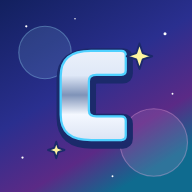
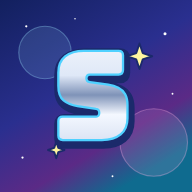
Teil 3 heißt „Schristians Welt“ (Spitzname), Symbol mit S
Claude-Session: https://claude.ai/code/session_01Qq27Hk81UvdcXBZNNTjSve

Changed region(s): [[0.2812, 0.25, 0.7188, 0.7812]]

diff --git a/christians-welt/index.html b/christians-welt/index.html
@@ -7,12 +7,12 @@
 <meta name="theme-color" content="#1b2a6b">
 <meta name="apple-mobile-web-app-capable" content="yes">
 <meta name="mobile-web-app-capable" content="yes">
-<meta name="apple-mobile-web-app-title" content="Christians Welt">
-<link rel="apple-touch-icon" href="icon-192.png?v=2">
-<link rel="icon" href="icon-192.png?v=2">
+<meta name="apple-mobile-web-app-title" content="Schristians Welt">
+<link rel="apple-touch-icon" href="icon-192.png?v=3">
+<link rel="icon" href="icon-192.png?v=3">
 </head>
 <body>
-<title>Christians Welt</title>
+<title>Schristians Welt</title>
 <link rel="preconnect" href="https://fonts.googleapis.com">
 <link rel="preconnect" href="https://fonts.gstatic.com" crossorigin>
 <link rel="stylesheet" href="https://fonts.googleapis.com/css2?family=Bangers&family=Bungee&family=Audiowide&family=Comic+Neue:wght@400;700&family=Permanent+Marker&display=swap">
@@ -1255,7 +1255,7 @@ button.primary, .lvl.next { background: linear-gradient(180deg, #9ff0ff 0%, #38b
   <section class="screen" id="scr-players">
     <div class="title">
       <div class="hero" id="hero"></div>
-      <h1>Christians <span class="big">Welt</span></h1>
+      <h1>Schristians <span class="big">Welt</span></h1>
       <p>Wer spielt?</p>
     </div>
     <div class="players" id="player-list"></div>
@@ -3809,7 +3809,7 @@ for (const T of Object.values(THEMES)) for (const S of (T.scenes || [])) if (NEW
 }
 
 // Werkzeugkoffer heißt in Teil 2 „Lasses Werkstatt“ (eigenes Gebäude auf dem Stadtplan)
-const KIT_NAME = "Christians Werkstatt";
+const KIT_NAME = "Schristians Werkstatt";
 // Lasses Werkstatt als kleines Comic-Gebäude: rotes Dach, Rolltor mit Warnstreifen, Schild mit Schraubenschlüssel
 const KIT_ICON = "werkstatt";
 document.querySelector("svg defs").insertAdjacentHTML("beforeend", `
@@ -5205,7 +5205,7 @@ const TOTAL = WORLDS.filter(w => !w.bonus).reduce((n, w) => n + w.levels.length,
 
 // ---------- Spieler (nur auf diesem Gerät) ----------
 const STORE = "christians-welt-v1";
-let store = { players: [{ id: "christian", name: "Christian", solved: {}, seen: 1 }], current: null };
+let store = { players: [{ id: "christian", name: "Schristian", solved: {}, seen: 1 }], current: null };
 try {
   const raw = JSON.parse(localStorage.getItem(STORE) || "null");
   if (raw && Array.isArray(raw.players) && raw.players.length) store = raw;
@@ -5350,7 +5350,7 @@ function renderMap() {
 const TAG_STYLES = [["#ffd23a", -8], ["#4fd1ff", 6], ["#ff5fa2", -4], ["#7dff7a", 8], ["#ff8a1a", -10], ["#c9a0ff", 4]];
 const tagSVG = (c, rot, k) => `<svg viewBox="0 0 170 70" aria-hidden="true"><g transform="rotate(${rot} 85 35)">
   ${[[18, 14], [150, 18], [30, 58], [140, 56], [96, 8]].map(([x, y], i) => `<circle cx="${x}" cy="${y}" r="${1.4 + (i + k) % 3}" fill="${c}" opacity=".75"/>`).join("")}
-  <text x="85" y="44" text-anchor="middle" font-family="Bangers, Impact, sans-serif" font-size="25" letter-spacing="1" fill="${c}" stroke="#2d3036" stroke-width="5" paint-order="stroke" stroke-linejoin="round">CHRISTIANS WELT</text>
+  <text x="85" y="44" text-anchor="middle" font-family="Bangers, Impact, sans-serif" font-size="23" letter-spacing="1" fill="${c}" stroke="#2d3036" stroke-width="5" paint-order="stroke" stroke-linejoin="round">SCHRISTIANS WELT</text>
   ${[40, 72, 118].map((x, i) => `<path d="M${x + (k * 7) % 11} 46v${8 + ((i + k) % 3) * 6}" stroke="${c}" stroke-width="3.4" stroke-linecap="round"/><circle cx="${x + (k * 7) % 11}" cy="${54 + ((i + k) % 3) * 6}" r="2.6" fill="${c}"/>`).join("")}
   <path d="M150 34l6-6 2 8 8 1-6 6" fill="none" stroke="#2d3036" stroke-width="2.4" stroke-linecap="round"/></g></svg>`;
 function addMapTags() {
@@ -5599,7 +5599,7 @@ Object.assign(OUTFIT, { "Bolzplatz": "c_bolz", "Volksparkstadion": "c_stadion", 
   const bolz = F.scenes.find(sc => sc.name === "Bolzplatz"), volks = F.scenes.find(sc => sc.name === "Volksparkstadion");
   F.scenes = [bolz, volks, FANKURVE];
   F.levelName = (l) => ["Bolzplatz", "Bolzplatz", "Volksparkstadion", "Volksparkstadion", "Fankurve", "Fankurve"][l];
-  F.prize = { symbol: "pokal", title: "Der Pott!", text: (m) => `Meister im Volkspark, Christian! Finale in ${m} Schritten.` };
+  F.prize = { symbol: "pokal", title: "Der Pott!", text: (m) => `Meister im Volkspark, Schristian! Finale in ${m} Schritten.` };
 }
 
 // ---------- Startseite: Christian groß im Y2K-Glanz ----------
@@ -5718,6 +5718,9 @@ const CHRISTIAN_HERO = `<svg viewBox="0 0 240 200" overflow="visible">
     levelName: (l) => SC[l][0], levelBox: () => "k3platte-0", boxCycle: () => ids
   });
 }
+
+// Spitzname: ein früher angelegtes Profil „Christian“ heißt jetzt „Schristian“
+store.players.forEach(p => { if (p.id === "christian" && p.name === "Christian") { p.name = "Schristian"; save(); } });
 
 function buildBoard() {
   let html = "";
@@ -6509,7 +6512,7 @@ const vSel = () => { const k = kitOf(P()); return (k.vsel = k.vsel || {}); };
 const curVar = (kind) => (vSel()[edDesign] || {})[kind] || null;
 const VKINDS = { wall: 1, floor: 1, box: 1 };
 const DICE = `<svg viewBox="0 0 100 100"><rect x="14" y="14" width="72" height="72" rx="16" fill="#ffffff" stroke="currentColor" stroke-width="5"/>${[[34, 34], [66, 34], [50, 50], [34, 66], [66, 66]].map(([x, y]) => `<circle cx="${x}" cy="${y}" r="6.5" fill="currentColor"/>`).join("")}</svg>`;
-const TOOLS = [["wall", "Wand"], ["floor", "Boden"], ["box", "Kiste"], ["goal", "Ziel"], ["start", "Christian"], ["erase", "Radierer"]];
+const TOOLS = [["wall", "Wand"], ["floor", "Boden"], ["box", "Kiste"], ["goal", "Ziel"], ["start", "Schristian"], ["erase", "Radierer"]];
 function edTileSize() {
   const room = Math.min(window.innerWidth - 32, 720), byH = (window.innerHeight - 330) / edLevel.h;
   return Math.max(24, Math.min(64, Math.floor(room / edLevel.w), Math.floor(byH)));

diff --git a/werkzeug/t3.js b/werkzeug/t3.js
@@ -41,7 +41,7 @@ Object.assign(OUTFIT, { "Bolzplatz": "c_bolz", "Volksparkstadion": "c_stadion", 
   const bolz = F.scenes.find(sc => sc.name === "Bolzplatz"), volks = F.scenes.find(sc => sc.name === "Volksparkstadion");
   F.scenes = [bolz, volks, FANKURVE];
   F.levelName = (l) => ["Bolzplatz", "Bolzplatz", "Volksparkstadion", "Volksparkstadion", "Fankurve", "Fankurve"][l];
-  F.prize = { symbol: "pokal", title: "Der Pott!", text: (m) => `Meister im Volkspark, Christian! Finale in ${m} Schritten.` };
+  F.prize = { symbol: "pokal", title: "Der Pott!", text: (m) => `Meister im Volkspark, Schristian! Finale in ${m} Schritten.` };
 }
 
 // ---------- Startseite: Christian groß im Y2K-Glanz ----------
@@ -160,3 +160,6 @@ const CHRISTIAN_HERO = `<svg viewBox="0 0 240 200" overflow="visible">
     levelName: (l) => SC[l][0], levelBox: () => "k3platte-0", boxCycle: () => ids
   });
 }
+
+// Spitzname: ein früher angelegtes Profil „Christian“ heißt jetzt „Schristian“
+store.players.forEach(p => { if (p.id === "christian" && p.name === "Christian") { p.name = "Schristian"; save(); } });

diff --git a/christians-welt/sw.js b/christians-welt/sw.js
@@ -1,4 +1,4 @@
-const CACHE = "christians-welt-08c2d0d8";
+const CACHE = "christians-welt-9ca270ca";
 const FILES = ["./", "./index.html", "./manifest.webmanifest", "./icon-192.png", "./icon-512.png"];
 self.addEventListener("install", e => { e.waitUntil(caches.open(CACHE).then(c => c.addAll(FILES))); self.skipWaiting(); });
 self.addEventListener("activate", e => { e.waitUntil(caches.keys().then(ks => Promise.all(ks.filter(k => k !== CACHE).map(k => caches.delete(k))))); self.clients.claim(); });

diff --git a/werkzeug/build3.py b/werkzeug/build3.py
@@ -9,15 +9,17 @@ def rep(a, b, n=1):
     c = s.count(a); assert c == n, (a[:70], c); s = s.replace(a, b)
 
 # ---- Kopf, Titel, Spielstand ----
-rep('<meta name="apple-mobile-web-app-title" content="Große Welt">', '<meta name="apple-mobile-web-app-title" content="Christians Welt">')
+rep('<meta name="apple-mobile-web-app-title" content="Große Welt">', '<meta name="apple-mobile-web-app-title" content="Schristians Welt">')
 rep('<meta name="theme-color" content="#e2402f">', '<meta name="theme-color" content="#1b2a6b">')
-rep('<title>Lasses große Welt</title>', '<title>Christians Welt</title>')
-rep('<h1>Lasses <span class="big">große Welt</span></h1>', '<h1>Christians <span class="big">Welt</span></h1>')
+rep('<title>Lasses große Welt</title>', '<title>Schristians Welt</title>')
+rep('<h1>Lasses <span class="big">große Welt</span></h1>', '<h1>Schristians <span class="big">Welt</span></h1>')
+rep('<link rel="apple-touch-icon" href="icon-192.png?v=2">', '<link rel="apple-touch-icon" href="icon-192.png?v=3">')
+rep('<link rel="icon" href="icon-192.png?v=2">', '<link rel="icon" href="icon-192.png?v=3">')
 rep('const STORE = "lasses-grosse-welt-v1";', 'const STORE = "christians-welt-v1";')
-rep('const KIT_NAME = "Lasses Werkstatt";', 'const KIT_NAME = "Christians Werkstatt";')
+rep('const KIT_NAME = "Lasses Werkstatt";', 'const KIT_NAME = "Schristians Werkstatt";')
 rep('family=Bangers&', 'family=Bangers&family=Bungee&family=Audiowide&')
 rep('''font-size="34" letter-spacing="1.5" fill="${c}" stroke="#2d3036" stroke-width="5" paint-order="stroke" stroke-linejoin="round">LASSES WELT</text>''',
-    '''font-size="25" letter-spacing="1" fill="${c}" stroke="#2d3036" stroke-width="5" paint-order="stroke" stroke-linejoin="round">CHRISTIANS WELT</text>''')
+    '''font-size="23" letter-spacing="1" fill="${c}" stroke="#2d3036" stroke-width="5" paint-order="stroke" stroke-linejoin="round">SCHRISTIANS WELT</text>''')
 
 # ---- Level: Microban II, nach kürzester Lösung sortiert; Probe: nur Welt 1 ----
 i = s.index("const WORLD_LEVELS = "); j = s.index("\n", i)
@@ -32,9 +34,9 @@ rep("Level: Microban von David W. Skinner, frei weitergegeben mit Nennung des Au
 
 
 # ---- Spieler „Christian“ statt „Lasse“, keine Ehrenrunde aus Teil 2 (kommt später als eigener Bonus) ----
-rep('let store = { players: [{ id: "lasse", name: "Lasse", solved: {}, seen: 1 }], current: null };', 'let store = { players: [{ id: "christian", name: "Christian", solved: {}, seen: 1 }], current: null };')
+rep('let store = { players: [{ id: "lasse", name: "Lasse", solved: {}, seen: 1 }], current: null };', 'let store = { players: [{ id: "christian", name: "Schristian", solved: {}, seen: 1 }], current: null };')
 rep('WORLD_LEVELS.push([{ n: 154, m: [', 'if (false) WORLD_LEVELS.push([{ n: 154, m: [')
-rep('["start", "Lasse"]', '["start", "Christian"]')
+rep('["start", "Lasse"]', '["start", "Schristian"]')
 
 
 # ---- Welten von Teil 3 ----
